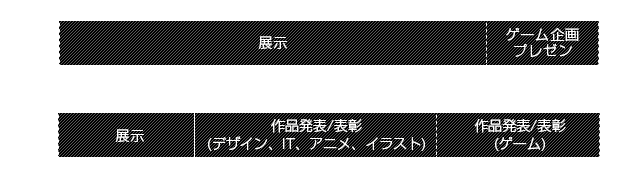
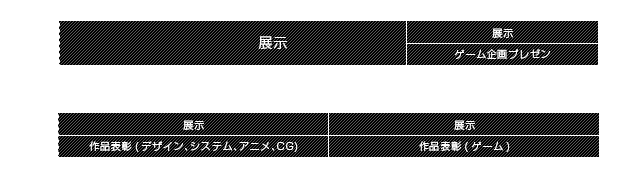
Replace schedule

Changed region(s): [[0.0921, 0.5851, 0.9822, 0.8511], [0.6446, 0.133, 0.9822, 0.3191], [0.2763, 0.6383, 0.3376, 0.6915]]

diff --git a/index.html b/index.html
@@ -189,7 +189,7 @@
               <h1 class="section__title mt2em">当日スケジュール</h1>
               <p>
                 <picture>
-                  <source media="(min-width: 1140px)" srcset="/img/schedule_pc.png">
+                  <source media="(min-width: 650px)" srcset="/img/schedule_pc.png">
                   <img src="/img/schedule_sp.png" alt="">
                 </picture>
               </p>
